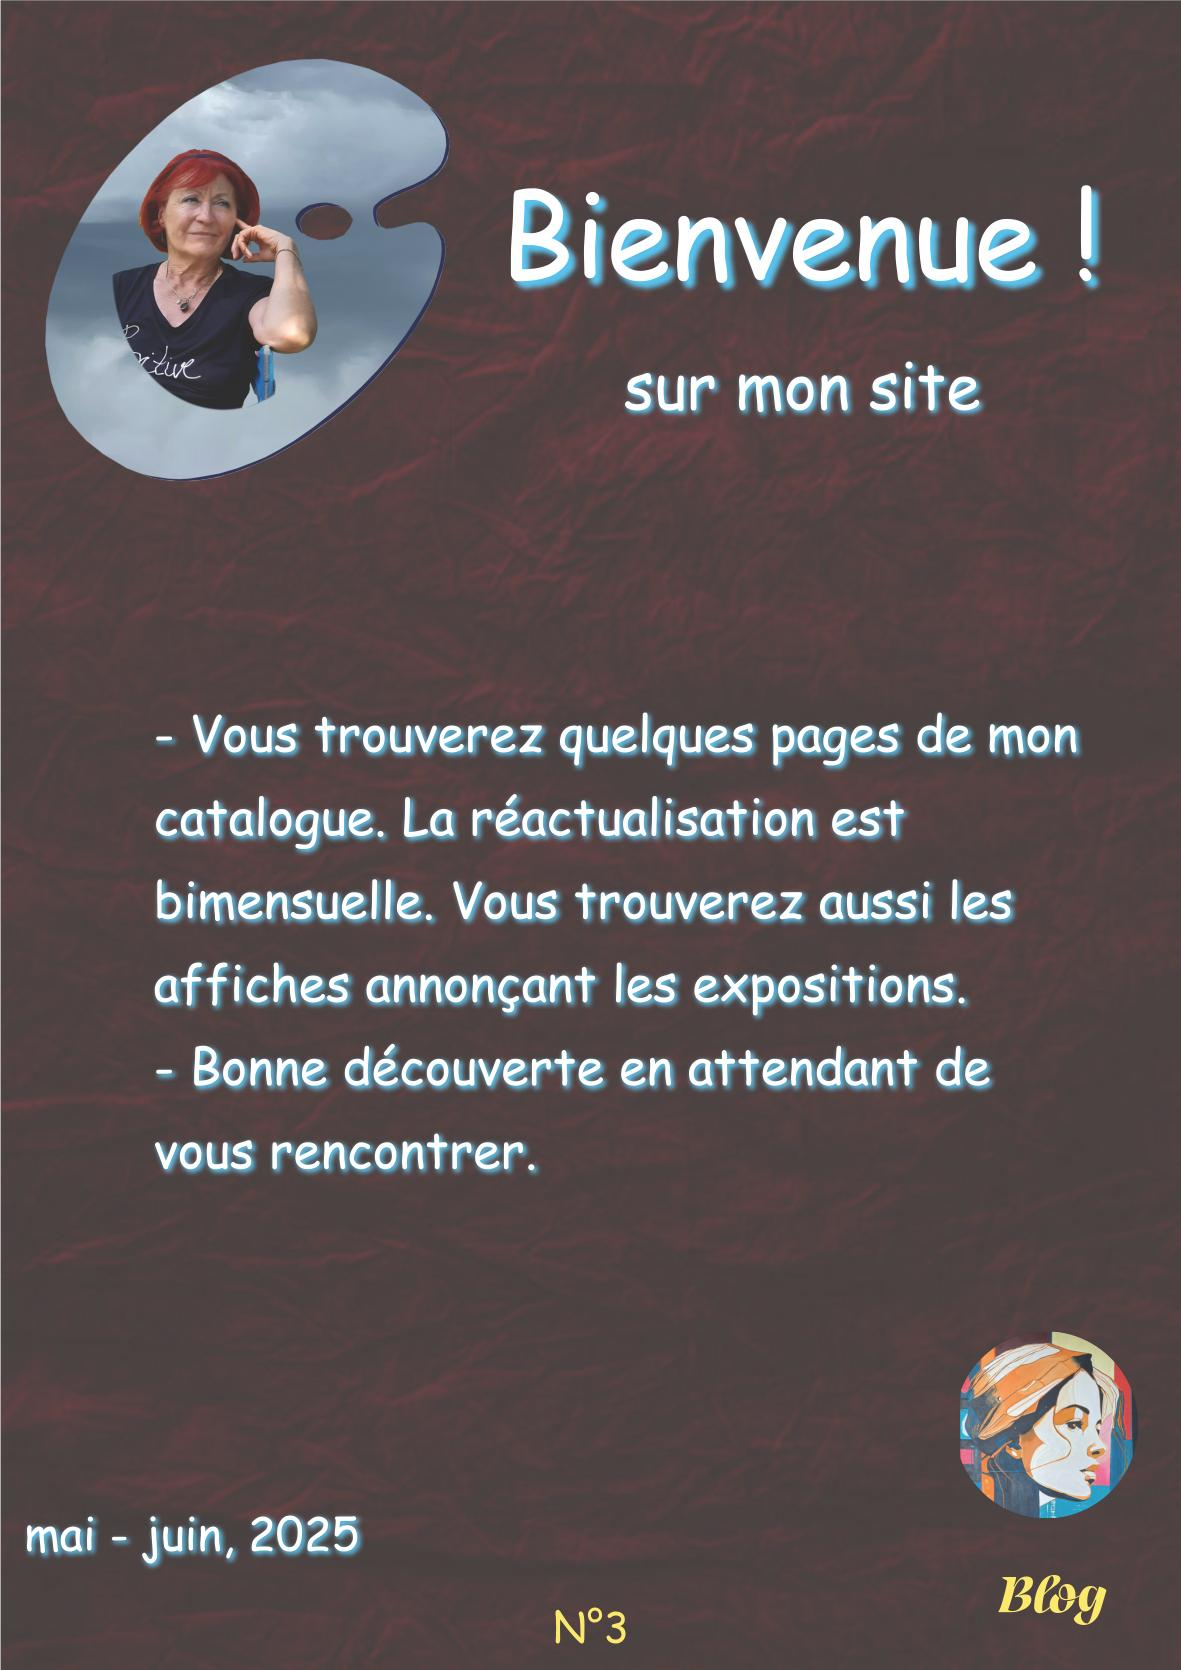
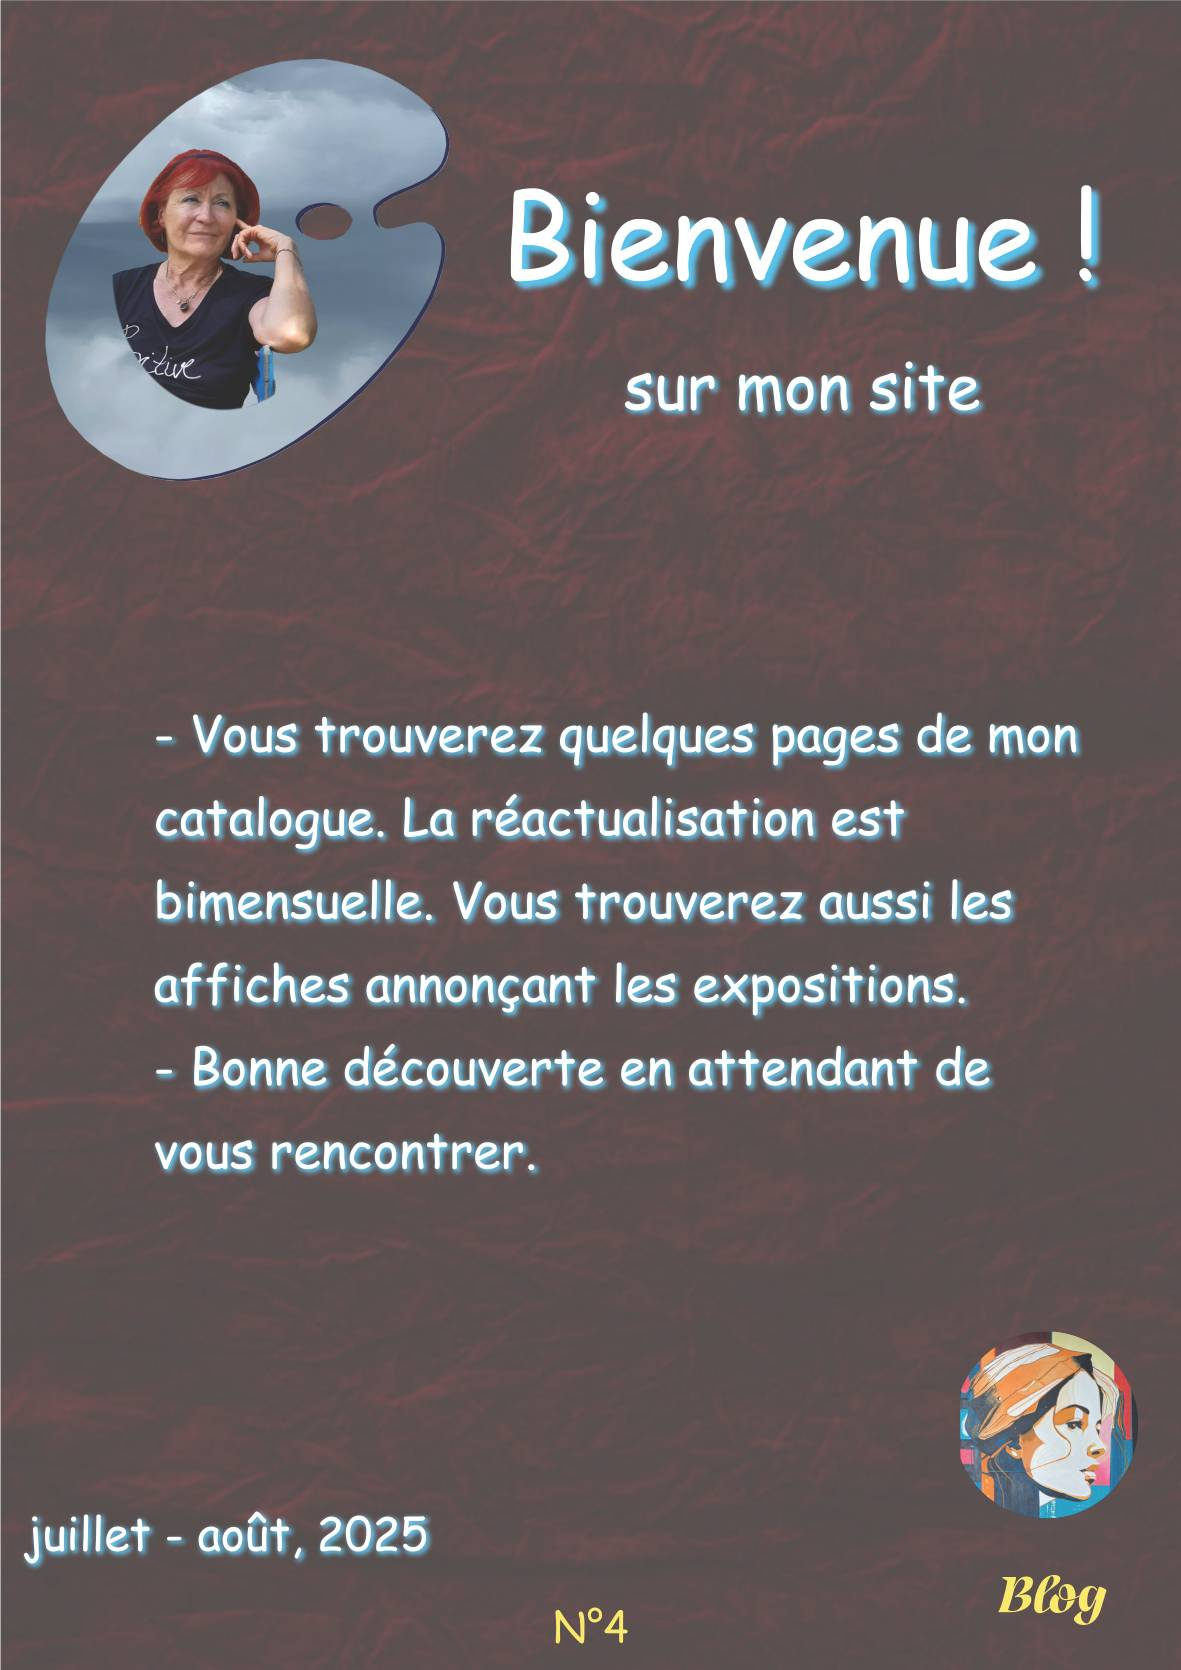
billet du 1er juillet

Changed region(s): [[0.0, 0.903, 0.3658, 0.9341], [0.8535, 0.9341, 0.9145, 0.9653], [0.4877, 0.9653, 0.5487, 0.9964]]

diff --git a/content/catalogue/_index.md b/content/catalogue/_index.md
@@ -1,6 +1,6 @@
 ---
 title: ""
-date: 2025-04-22T01:00:00+01:00
+date: 2024-12-17T11:50:51+01:00
 weight: 20
 albumthumb: "/catalogue/couverture.jpg"
 draft: false
@@ -11,18 +11,18 @@ draft: false
 resources:
 - src: "/catalogue/couverture.jpg"
   weight: 10
-- src: "/catalogue/page_1003.jpg"
-  weight: 40
-- src: "/catalogue/page_1009.jpg"
-  weight: 100
-- src: "/catalogue/page_1015.jpg"
-  weight: 160
-- src: "/catalogue/page_1021.jpg"
-  weight: 220
-- src: "/catalogue/page_1027.jpg"
-  weight: 280
-- src: "/catalogue/page_1033.jpg"
-  weight: 340
+- src: "/catalogue/page_1004.jpg"
+  weight: 50
+- src: "/catalogue/page_1010.jpg"
+  weight: 110
+- src: "/catalogue/page_1016.jpg"
+  weight: 170
+- src: "/catalogue/page_1022.jpg"
+  weight: 230
+- src: "/catalogue/page_1028.jpg"
+  weight: 290
+- src: "/catalogue/page_1034.jpg"
+  weight: 350
 - src: "/catalogue/page_1100.jpg"
   weight: 1000
 - src: "/catalogue/page_1101.jpg"

diff --git a/content/affiches/2024/_index.md b/content/affiches/2024/_index.md
@@ -13,7 +13,7 @@ resources:
   weight: 10
 - src: "/affiches/2024/expo_collective_etuve.jpg"
   weight: 20
-- src: "/affiches/2024/affiche_penty.jpg"
+- src: "/affiches/2024/penty.jpg"
   weight: 30
 - src: "/affiches/2024/doelan_2024.jpg"
   weight: 40
